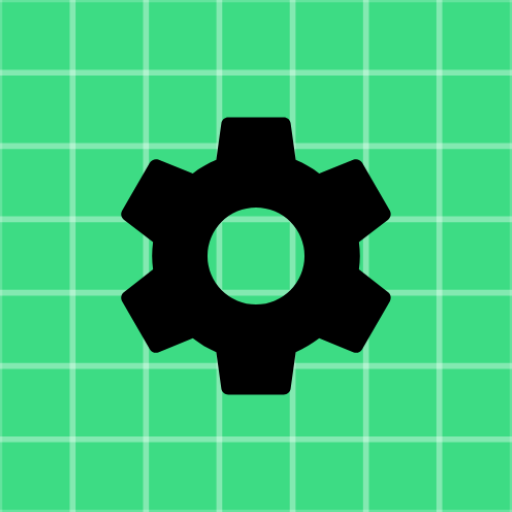
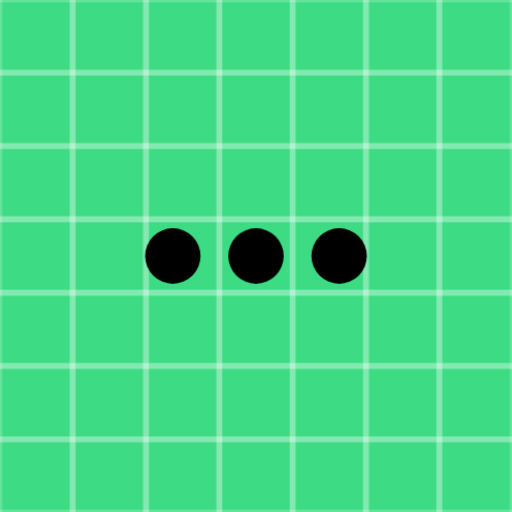
replaced buttons with floating action buttons. Added animations.

Changed region(s): [[0.2188, 0.2188, 0.7812, 0.7812]]

diff --git a/app/src/main/java/com/example/ble2/ui2/subnet/SubnetDetails.kt b/app/src/main/java/com/example/ble2/ui2/subnet/SubnetDetails.kt
@@ -5,12 +5,15 @@ import android.util.Log
 import android.view.LayoutInflater
 import android.view.View
 import android.view.ViewGroup
+import android.view.animation.Animation
+import android.view.animation.AnimationUtils
 import android.widget.Toast
 import androidx.activity.OnBackPressedCallback
 import androidx.fragment.app.Fragment
 import androidx.navigation.findNavController
 import androidx.navigation.fragment.navArgs
 import com.example.ble2.AppState
+import com.example.ble2.R
 import com.example.ble2.databinding.FragmentSubnetDetailsBinding
 import com.example.ble2.ui.adapter.subnet.selectedSubnet.NodesAdapter
 import com.siliconlab.bluetoothmesh.adk.ErrorType
@@ -24,6 +27,32 @@ class SubnetDetails : Fragment() {
     private lateinit var viewModel: SubnetDetailsViewModel
     private val args: SubnetDetailsArgs by navArgs()
     private lateinit var binding: FragmentSubnetDetailsBinding
+    private val rotateOpen: Animation by lazy {
+        AnimationUtils.loadAnimation(
+            requireContext(),
+            R.anim.rotate_open_anim
+        )
+    }
+    private val rotateClose: Animation by lazy {
+        AnimationUtils.loadAnimation(
+            requireContext(),
+            R.anim.rotate_close_anim
+        )
+    }
+    private val fromBottom: Animation by lazy {
+        AnimationUtils.loadAnimation(
+            requireContext(),
+            R.anim.from_bottom_anim
+        )
+    }
+    private val toBottom: Animation by lazy {
+        AnimationUtils.loadAnimation(
+            requireContext(),
+            R.anim.to_bottom_anim
+        )
+    }
+    private var clicked = false
+
 
     override fun onCreateView(
         inflater: LayoutInflater, container: ViewGroup?,
@@ -49,27 +78,65 @@ class SubnetDetails : Fragment() {
         val subnet = AppState.network.subnets.toList()[subnetIndex]
         viewModel = SubnetDetailsViewModel(subnet)
         observeViewModel()
+        binding.floatingActionButtonMore.setOnClickListener {
+            onMoreButtonClicked()
+        }
+
         val adapter = NodesAdapter(subnet)
         binding.subnetName.text = subnet.name
         adapter.submitList(subnet.nodes.toList())
         binding.nodesList.adapter = adapter
-        binding.settings.setOnClickListener {
+        binding.floatingActionButtonSettings.setOnClickListener {
             openDialog()
         }
-        binding.removeSubnet.setOnClickListener {
-            if (subnet.nodes.isEmpty()) {
-                subnet.removeSubnet(object : SubnetRemovalCallback {
-                    override fun success(p0: Subnet?) {
-                        binding.root.findNavController().navigateUp()
-                    }
-
-                    override fun error(p0: Subnet?, p1: SubnetRemovalResult?, p2: ErrorType?) {
-                        Toast.makeText(requireContext(), "cant remove subnet", Toast.LENGTH_SHORT)
-                            .show()
-                    }
-                })
-            }
+        binding.floatingActionButtonRemove.setOnClickListener {
+            removeSubnet(subnet)
         }
+
+    }
+
+    private fun removeSubnet(subnet: Subnet) {
+        if (subnet.nodes.isEmpty()) {
+            subnet.removeSubnet(object : SubnetRemovalCallback {
+                override fun success(p0: Subnet?) {
+                    binding.root.findNavController().navigateUp()
+                }
+
+                override fun error(p0: Subnet?, p1: SubnetRemovalResult?, p2: ErrorType?) {
+                    Toast.makeText(requireContext(), "cant remove subnet", Toast.LENGTH_SHORT)
+                        .show()
+                }
+            })
+        }
+    }
+
+    private fun onMoreButtonClicked() {
+        setVisibility(clicked)
+        setAnimation(clicked)
+        clicked = !clicked
+    }
+
+    private fun setAnimation(clicked: Boolean) {
+        if (!clicked) {
+            binding.floatingActionButtonSettings.startAnimation(fromBottom)
+            binding.floatingActionButtonRemove.startAnimation(fromBottom)
+            binding.floatingActionButtonMore.startAnimation(rotateOpen)
+        } else {
+            binding.floatingActionButtonSettings.startAnimation(toBottom)
+            binding.floatingActionButtonRemove.startAnimation(toBottom)
+            binding.floatingActionButtonMore.startAnimation(rotateClose)
+        }
+    }
+
+    private fun setVisibility(clicked: Boolean) {
+        if (!clicked) {
+            binding.floatingActionButtonRemove.visibility = View.VISIBLE
+            binding.floatingActionButtonSettings.visibility = View.VISIBLE
+        } else {
+            binding.floatingActionButtonRemove.visibility = View.GONE
+            binding.floatingActionButtonSettings.visibility = View.GONE
+        }
+
     }
 
     private fun observeViewModel() {

diff --git a/app/src/main/java/com/example/ble2/ui2/subnet/SubnetsFragment.kt b/app/src/main/java/com/example/ble2/ui2/subnet/SubnetsFragment.kt
@@ -5,11 +5,14 @@ import android.util.Log
 import android.view.LayoutInflater
 import android.view.View
 import android.view.ViewGroup
+import android.view.animation.Animation
+import android.view.animation.AnimationUtils
 import androidx.activity.OnBackPressedCallback
 import androidx.fragment.app.Fragment
 import androidx.navigation.findNavController
 import com.example.ble2.AppState
 import com.example.ble2.MainApplication
+import com.example.ble2.R
 import com.example.ble2.adapters.SubnetAdapter
 import com.example.ble2.databinding.FragmentSubnetsBinding
 
@@ -18,6 +21,18 @@ class SubnetsFragment : Fragment() {
     private lateinit var binding: FragmentSubnetsBinding
     val adapter = SubnetAdapter()
     val viewModel = SubnetsViewModel()
+    private val rotateOpen: Animation by lazy {
+        AnimationUtils.loadAnimation(
+            requireContext(),
+            R.anim.rotate_open_45
+        )
+    }
+    private val rotateClose: Animation by lazy {
+        AnimationUtils.loadAnimation(
+            requireContext(),
+            R.anim.rotate_close_45
+        )
+    }
 
     override fun onCreateView(
         inflater: LayoutInflater, container: ViewGroup?,
@@ -43,8 +58,13 @@ class SubnetsFragment : Fragment() {
         submitNewList()
         observeViewModel()
         binding.addSubnetFab.setOnClickListener {
+            setAnimation()
             openDialog()
         }
+    }
+
+    private fun setAnimation() {
+        binding.addSubnetFab.startAnimation(rotateOpen)
     }
 
     private fun observeViewModel() {
@@ -56,7 +76,15 @@ class SubnetsFragment : Fragment() {
         viewModel.currentName.observe(viewLifecycleOwner) {
             Log.v("currentName", it.toString())
             if (it != "") {
+                binding.addSubnetFab.startAnimation(rotateClose)
                 submitNewList()
+            } else {
+                binding.addSubnetFab.startAnimation(rotateClose)
+            }
+        }
+        viewModel.rotate.observe(viewLifecycleOwner) {
+            if (it) {
+                binding.addSubnetFab.startAnimation(rotateClose)
             }
         }
     }

diff --git a/app/src/main/java/com/example/ble2/ui2/subnet/SettingsSubnetDialog.kt b/app/src/main/java/com/example/ble2/ui2/subnet/SettingsSubnetDialog.kt
@@ -2,7 +2,6 @@ package com.example.ble2.ui2.subnet
 
 
 import android.app.Dialog
-import android.content.DialogInterface
 import android.os.Bundle
 import android.view.LayoutInflater
 import androidx.appcompat.app.AlertDialog
@@ -19,9 +18,9 @@ class SettingsSubnetDialog(val viewModel: SubnetDetailsViewModel) : AppCompatDia
         val builder = AlertDialog.Builder(requireActivity())
         binding.subnetNameDialog.setText(viewModel.currentName.value)
         builder.setView(binding.root).setTitle("Subnet Settings")
-            .setPositiveButton("ok", DialogInterface.OnClickListener() { dialog, which ->
+            .setPositiveButton("ok") { _, _ ->
                 viewModel.setName(binding.subnetNameDialog.text.toString())
-            })
+            }
         return builder.create()
     }
 

diff --git a/app/src/main/java/com/example/ble2/ui2/subnet/AddSubnetDialog.kt b/app/src/main/java/com/example/ble2/ui2/subnet/AddSubnetDialog.kt
@@ -1,7 +1,6 @@
 package com.example.ble2.ui2.subnet
 
 import android.app.Dialog
-import android.content.DialogInterface
 import android.os.Bundle
 import android.view.LayoutInflater
 import androidx.appcompat.app.AlertDialog
@@ -19,10 +18,15 @@ class AddSubnetDialog(val viewModel: SubnetsViewModel) : AppCompatDialogFragment
 
 
         builder.setView(binding.root).setTitle("Select Subnet Name")
-            .setPositiveButton("ok", DialogInterface.OnClickListener() { dialog, which ->
+            .setPositiveButton("ok") { _, _ ->
                 viewModel.setName(binding.subnetNameDialog.text.toString())
-            })
+            }
         return builder.create()
+    }
+
+    override fun onDestroy() {
+        super.onDestroy()
+        viewModel.setRotation(true)
     }
 
 

diff --git a/app/src/main/java/com/example/ble2/ui2/subnet/SubnetsViewModel.kt b/app/src/main/java/com/example/ble2/ui2/subnet/SubnetsViewModel.kt
@@ -14,6 +14,13 @@ class SubnetsViewModel {
     private val _currentName = MutableLiveData("")
     val currentName: LiveData<String> = _currentName
 
+    private val _rotate = MutableLiveData(false)
+    val rotate: LiveData<Boolean> = _rotate
+
+    fun setRotation(rotate: Boolean) {
+        _rotate.value = rotate
+    }
+
     fun setName(name: String) {
         Log.v("set Name", name)
         if (name != "") {
